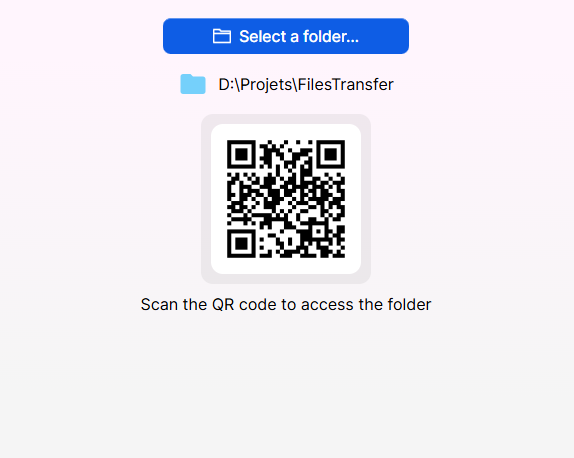
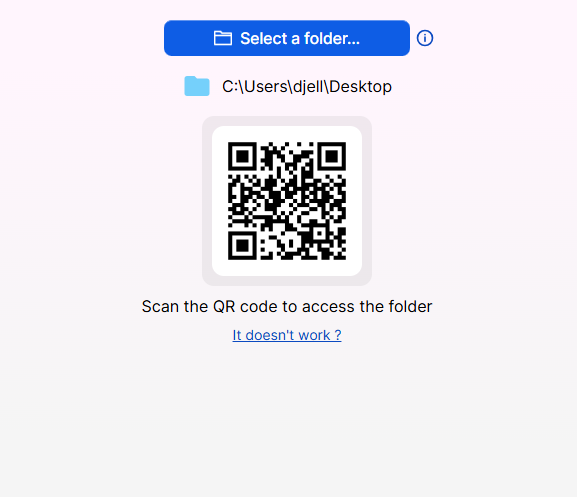
add information in UI

diff --git a/src/styles.css b/src/styles.css
@@ -14,7 +14,9 @@ body {
     flex-direction: column;
     align-items: center;
     margin: 0;
+    padding: 0;
     gap: 10px;
+    user-select: none;
 }
 
 h1,
@@ -38,7 +40,18 @@ p {
     padding: 0;
 }
 
-#selectFolderBtn {
+a {
+    color: #0c4ac1;
+    text-align: center;
+    text-decoration: underline;
+    font-family: 'IzyUI', sans-serif;
+    font-size: 14px;
+    margin: 0;
+    padding: 0;
+    cursor: pointer;
+}
+
+button {
     background-color: #0E5DE5;
     border: none;
     border-top: 1px solid #6094ee;
@@ -50,31 +63,67 @@ p {
     border-radius: 8px;
     display: flex;
     margin-top: 20px;
-
-
-
-
-
 }
 
-#selectFolderBtn img {
+button img {
     width: auto;
     height: 18px;
     margin-right: 8px;
 }
 
-#selectFolderBtn h3 {
+button h3 {
     font-weight: 500;
 }
 
-#selectFolderBtn:hover {
+button:hover {
     background-color: #0c4ac1;
 }
 
-#selectFolderBtn:active {
+button:active {
     background-color: #063792;
 }
 
+.select-folder-container {
+    position: relative;
+}
+
+.tooltip-container {
+    position: absolute;
+    right: -5px;
+    top: 50%;
+    transform: translateX(100%);
+    cursor: pointer;
+}
+
+.tooltip-container img {
+    width: 20px;
+    height: 20px;
+}
+
+#tooltip {
+    transform: translateX(-45%);
+    padding: 5px;
+    width: 130px;
+    background-color: #25252562;
+    backdrop-filter: blur(10px);
+    box-shadow: rgba(0, 0, 0, 0.16) 0px 10px 36px 0px, rgba(0, 0, 0, 0.06) 0px 0px 0px 1px;
+    border-radius: 12px;
+    display: flex;
+    align-items: center;
+    justify-content: center;
+    opacity: 0;
+    visibility: hidden;
+    transition: opacity 0.3s ease, visibility 0.3s ease;
+}
+
+#tooltip h5 {
+    font-weight: 500;
+}
+
+#tooltip.visible {
+    opacity: 1;
+    visibility: visible;
+}
 
 #selectedFolderContainer {
     display: none;
@@ -89,10 +138,15 @@ p {
     height: 30px;
 }
 
-#selectedFolderContainer p {
+#selectedFolderPath {
     overflow: hidden;
     text-overflow: ellipsis;
     text-wrap: nowrap;
+}
+
+#selectedFolderPath:hover {
+    color: #0c4ac1;
+    cursor: pointer;
 }
 
 #qrCodeContainer {
@@ -182,4 +236,34 @@ p {
 
 #cancelBtn:active {
     background-color: #ffffff86;
+}
+
+#modalInfo {
+    position: fixed;
+    top: 50%;
+    left: 50%;
+    transform: translate(-50%, -50%);
+    display: flex;
+    flex-direction: column;
+    align-items: center;
+    justify-content: space-between;
+    border-radius: 12px;
+    background-color: #25252562;
+    backdrop-filter: blur(10px);
+    padding: 20px;
+    width: 280px;
+    height: 200px;
+    opacity: 0;
+    visibility: hidden;
+    transition: opacity 0.3s ease, visibility 0.3s ease;
+    box-shadow: rgba(0, 0, 0, 0.16) 0px 10px 36px 0px, rgba(0, 0, 0, 0.06) 0px 0px 0px 1px;
+}
+
+#modalInfo.visible {
+    opacity: 1;
+    visibility: visible;
+}
+
+#modalInfo p {
+    color: white;
 }

diff --git a/src/js/renderer.js b/src/js/renderer.js
@@ -1,6 +1,6 @@
 addEventListener('DOMContentLoaded', async () => {
-    const desktopPath = await window.electronAPI.getDefaultFolderPath();
-    updateSelectedFolderPath(desktopPath);
+    const defaultFolderPath = await window.electronAPI.getDefaultFolderPath();
+    updateSelectedFolderPath(defaultFolderPath);
 
     const qrCodeDataURL = await window.electronAPI.getQRCode();
     if (qrCodeDataURL) {
@@ -8,6 +8,9 @@ addEventListener('DOMContentLoaded', async () => {
         qrCodeImage.src = qrCodeDataURL;
         document.getElementById('qrCodeContainer').style.display = 'flex';
     }
+
+    const serverUrl = document.getElementById('serverUrl');
+    serverUrl.innerText = await window.electronAPI.getServerUrl();
 
     window.electronAPI.onDataTransferProgress((dataProgress) => {
         updateDataTransferProgress(dataProgress);
@@ -21,6 +24,27 @@ async function selectFolder() {
     }
 }
 
+function showModalInfo() {
+    const modalInfo = document.getElementById('modalInfo');
+    modalInfo.classList.add('visible');
+}
+
+function closeModalInfo() {
+    console.log('closeModalInfo');
+    const modalInfo = document.getElementById('modalInfo');
+    modalInfo.classList.remove('visible');
+}
+
+function showTooltip() {
+    const tooltip = document.getElementById('tooltip');
+    tooltip.classList.add('visible');
+}
+
+function hideTooltip() {
+    const tooltip = document.getElementById('tooltip');
+    tooltip.classList.remove('visible');
+}
+
 function cancelTransfer() {
     window.electronAPI.cancelDataTransfer();
 }
@@ -28,6 +52,9 @@ function cancelTransfer() {
 function updateSelectedFolderPath(path) {
     const selectedFolderPath = document.getElementById('selectedFolderPath');
     selectedFolderPath.textContent = path;
+    selectedFolderPath.onclick = () => {
+        window.electronAPI.openFolder(path);
+    }
 
     const selectedFolderElement = document.getElementById('selectedFolderContainer');
     selectedFolderElement.style.display = 'flex';

diff --git a/src/index.html b/src/index.html
@@ -9,9 +9,20 @@
 </head>
 
 <body>
-    <button id="selectFolderBtn" onclick="selectFolder()"><img src="./assets/folder.svg" />
-        <h3>Select a folder...</h3>
-    </button>
+    <div class="select-folder-container">
+        <button id="selectFolderBtn" onclick="selectFolder()">
+            <img src="./assets/folder.svg" />
+            <h3>Select a folder...</h3>
+        </button>
+        <div class="tooltip-container">
+            <img src="./assets/info.svg" onmouseenter="showTooltip()" onmouseleave="hideTooltip()" />
+            <div id="tooltip">
+                <h5>This is the folder used to share files with other devices</h5>
+            </div>
+        </div>
+    </div>
+
+
     <div id="selectedFolderContainer">
         <img src="./assets/folder_blue.svg" />
         <p id="selectedFolderPath"></p>
@@ -20,9 +31,9 @@
         <img id="qrCodeImage" alt="QR Code will appear here" />
     </div>
     <p>Scan the QR code to access the folder</p>
+    <a onclick="showModalInfo()">It doesn't work ?</a>
 
     <div id="transferInfoContainer">
-
         <div class="transfer-info">
             <img id="defaultTransferImage" src="./assets/transfer.svg" />
             <img id="deviceInfoImage" />
@@ -33,6 +44,14 @@
         </div>
         <button id="cancelBtn" onclick="cancelTransfer()">
             <h4>Cancel</h4>
+        </button>
+    </div>
+
+    <div id="modalInfo">
+        <p>With the device you want to share files with, open your web browser and to go to:</p>
+        <p id="serverUrl"></p>
+        <button onclick="closeModalInfo()">
+            <h3>Close</h3>
         </button>
     </div>
 

diff --git a/src/js/ipc.js b/src/js/ipc.js
@@ -1,5 +1,5 @@
 const qrcode = require('qrcode')
-const { ipcMain, dialog } = require('electron')
+const { ipcMain, dialog, shell } = require('electron')
 const { getStaticFolderPath, setStaticFolderPath, getClientPageUrl, setDataTransferProgressCallback, cancelDataTransfer } = require('./server')
 
 function setIpc(window) {
@@ -26,6 +26,14 @@ function setIpc(window) {
 
     ipcMain.handle('cancelDataTransfer', () => {
         cancelDataTransfer();
+    });
+
+    ipcMain.handle('openFolder', async (_event, path) => {
+        await shell.openPath(path);
+    });
+
+    ipcMain.handle('getServerUrl', () => {
+        return getClientPageUrl();
     });
 
     setDataTransferProgressCallback((dataProgress) => {

diff --git a/src/js/preload.js b/src/js/preload.js
@@ -3,7 +3,9 @@ const { contextBridge, ipcRenderer } = require('electron')
 contextBridge.exposeInMainWorld('electronAPI', {
     selectFolder: () => ipcRenderer.invoke('dialog:openFolder'),
     getQRCode: () => ipcRenderer.invoke('generateQrCode'),
+    getServerUrl: () => ipcRenderer.invoke('getServerUrl'),
     getDefaultFolderPath: () => ipcRenderer.invoke('getDefaultFolderPath'),
     onDataTransferProgress: (callback) => ipcRenderer.on('dataTransferProgress', (_event, value) => callback(value)),
-    cancelDataTransfer: () => ipcRenderer.invoke('cancelDataTransfer')
+    cancelDataTransfer: () => ipcRenderer.invoke('cancelDataTransfer'),
+    openFolder: (path) => ipcRenderer.invoke('openFolder', path)
 })

diff --git a/src/js/main.js b/src/js/main.js
@@ -23,7 +23,7 @@ function createWindow() {
 
     const win = new BrowserWindow({
         width: 600,
-        height: 500,
+        height: 550,
         resizable: false,
         autoHideMenuBar: true,
         title: 'Izy Transfer',
@@ -36,6 +36,8 @@ function createWindow() {
     })
 
     win.loadFile(path.join(__dirname, '..', 'index.html'))
+
+    //win.webContents.openDevTools()
 
     setIpc(win);
 }
